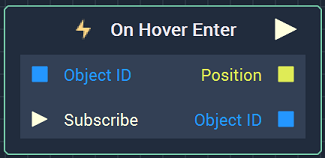
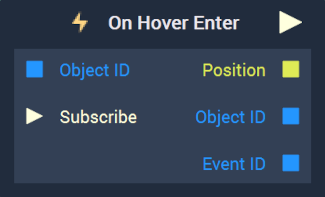
event id edits

diff --git a/toolbox/events/mouse/on-hover-enter.md b/toolbox/events/mouse/on-hover-enter.md
@@ -2,19 +2,12 @@
 
 ## Overview
 
-![The On Hover Enter Node.](../../../.gitbook/assets/onhoverenterupdatedimage.png)
+![The On Hover Enter Node.](../../../.gitbook/assets/onhoverenternode.png)
 
 **On Hover Enter** is an **Event Listener** **Node** used for executing a **Logic Branch** when the cursor starts hovering over an **Object**.
 
 [**Scope**](../../overview.md#scopes): **Scene**, **Prefab**.
 
-## Attributes
-
-![The On Hover Enter Node Attributes.](../../../.gitbook/assets/onhoverenterattributes.png)
-
-| Attribute | Type | Description |
-| :--- | :--- | :--- |
-| `Object` | **ObjectID** | The **Object** in which start hovering triggers the **Logic Branch**, if none is given in the `Object ID` **Input Socket**. |
 
 ## Inputs
 
@@ -30,6 +23,7 @@
 | _Pulse Output_ \(►\) | **Pulse** | A standard **Output Pulse**, to move onto the next **Node** along the **Logic Branch**, once this **Node** has finished its execution. |
 | `Position` | **Vector2** | **Vector** containing the XY-coordinates of the point of entry with respect to the bottom left of the **Screen**. |
 | `Object ID` | **ObjectID** | The **Object** received as **Input**. |
+|`Event ID`| **ObjectID**| The ID of the current **Event**. This can be connected to the [**Unsubscribe Node**](../unsubscribe.md) to unsubscribe from the **Event**.|
 
 ## See Also
 

diff --git a/toolbox/events/mouse/on-hover-leave.md b/toolbox/events/mouse/on-hover-leave.md
@@ -2,7 +2,7 @@
 
 ## Overview
 
-![The On Hover Leave Node.](../../../.gitbook/assets/onhoverleaveupdatedimage.png)
+![The On Hover Leave Node.](../../../.gitbook/assets/onhoverleavenode2.png)
 
 **On Hover Leave** is an **Event Listener** **Node** used for executing a **Logic Branch** when the cursor stops hovering over an **Object**.
 
@@ -10,11 +10,6 @@
 
 ## Attributes
 
-![The On Hover Leave Node Attributes.](../../../.gitbook/assets/onhoverleaveattributes.png)
-
-| Attribute | Type | Description |
-| :--- | :--- | :--- |
-| `Object` | **ObjectID** | The **Object** in which stop hovering triggers the **Logic Branch**, if none is given in the `Òbject ID` **Input Socket**. |
 
 ## Inputs
 
@@ -30,6 +25,7 @@
 | _Pulse Output_ \(►\) | **Pulse** | A standard **Output Pulse**, to move onto the next **Node** along the **Logic Branch**, once this **Node** has finished its execution. |
 | `Position` | **Vector2** | **Vector** containing the XY-coordinates of the point of exit with respect to the bottom left of the **Screen**. |
 | `Object ID` | **ObjectID** | The **Object** received as **Input**. |
+|`Event ID`| **ObjectID**| The ID of the current **Event**. This can be connected to the [**Unsubscribe Node**](../unsubscribe.md) to unsubscribe from the **Event**.|
 
 ## See Also
 

diff --git a/toolbox/events/mouse/on-mouse-move.md b/toolbox/events/mouse/on-mouse-move.md
@@ -38,7 +38,7 @@ Note: **Input Sockets** only available when `Event Base` is set to `Object`.
 | _Pulse Output_ \(►\) | **Pulse** | A standard **Output Pulse**, to move onto the next **Node** along the **Logic Branch**, once this **Node** has finished its execution. |
 | `Position` | **Vector2** | **Vector** containing the XY-coordinates of the points through which the cursor passes with respect to the bottom left of the **Screen**. |
 | `Object ID` | **ObjectID** | The **Object ID** of the **Object** where the cursos moves. If there is no **Object** on that part of the **Screen**, the output is the **Object ID** `00000000-0000-0000-0000-000000000000`.  |
-|`Event ID`| **ObjectID**| The ID of the current **Event**. This can be connected to the [**Unsubscribe Node**](../../incari/event/unsubscribe.md) to unsubscribe from the **Event**.|
+|`Event ID`| **ObjectID**| The ID of the current **Event**. This can be connected to the [**Unsubscribe Node**](../unsubscribe.md) to unsubscribe from the **Event**.|
 
 ## See Also
 

diff --git a/toolbox/events/mouse/on-mouse-scroll.md b/toolbox/events/mouse/on-mouse-scroll.md
@@ -38,7 +38,7 @@ Note: **Input Sockets** only available when `Event Base` is set to `Object`.
 | _Pulse Output_ \(►\) | **Pulse** | A standard **Output Pulse**, to move onto the next **Node** along the **Logic Branch**, once this **Node** has finished its execution. |
 | `Direction` | **Vector2** | **Vector** whose Y-coordinate indicates the direction and speed of the scrolling. |
 | `Object ID` | **ObjectID** |  The **Object ID** of the **Object** where the scroll occurs. If there is no **Object** on that part of the **Screen**, the output is the **Object ID** `00000000-0000-0000-0000-000000000000`. |
-|`Event ID`| **ObjectID**| The ID of the current **Event**. This can be connected to the [**Unsubscribe Node**](../../incari/event/unsubscribe.md) to unsubscribe from the **Event**.|
+|`Event ID`| **ObjectID**| The ID of the current **Event**. This can be connected to the [**Unsubscribe Node**](../unsubscribe.md) to unsubscribe from the **Event**.|
 
 ## See Also
 

diff --git a/toolbox/events/mouse/on-mouse-click.md b/toolbox/events/mouse/on-mouse-click.md
@@ -46,7 +46,7 @@ Note: **Input Sockets** only available when `Event Base` is set to `Object`.
 | _Pulse Output_ \(►\) | **Pulse** | A standard **Output Pulse**, to move onto the next **Node** along the **Logic Branch**, once this **Node** has finished its execution. |
 | `IsLongClick` | **Bool** | _True_ when the button is pressed longer than usual. |
 | `Object ID` | **ObjectID** | The **Object ID** of the **Object** that was clicked on. If there is no **Object** on that part of the **Screen**, the output is the **Object ID** `00000000-0000-0000-0000-000000000000`.  |
-|`Event ID`| **ObjectID**| The ID of the current **Event**. This can be connected to the [**Unsubscribe Node**](../../incari/event/unsubscribe.md) to unsubscribe from the **Event**.|
+|`Event ID`| **ObjectID**| The ID of the current **Event**. This can be connected to the [**Unsubscribe Node**](../unsubscribe.md) to unsubscribe from the **Event**.|
 
 ## See Also
 

diff --git a/toolbox/events/mouse/on-mouse-enter.md b/toolbox/events/mouse/on-mouse-enter.md
@@ -38,7 +38,7 @@ Note: **Input Sockets** only available when `Event Base` is set to `Object`.
 | _Pulse Output_ \(►\) | **Pulse** | A standard **Output Pulse**, to move onto the next **Node** along the **Logic Branch**, once this **Node** has finished its execution. |
 | `Position` | **Vector2** | **Vector** containing the XY-coordinates of the point of entry with respect to the bottom left of the **Screen**. |
 | `Object ID` | **ObjectID** | The **Object ID** of the **Object** entered. |
-|`Event ID`| **ObjectID**| The ID of the current **Event**. This can be connected to the [**Unsubscribe Node**](../../incari/event/unsubscribe.md) to unsubscribe from the **Event**.|
+|`Event ID`| **ObjectID**| The ID of the current **Event**. This can be connected to the [**Unsubscribe Node**](../unsubscribe.md) to unsubscribe from the **Event**.|
 
 ## See Also
 

diff --git a/toolbox/events/mouse/on-mouse-leave.md b/toolbox/events/mouse/on-mouse-leave.md
@@ -38,7 +38,7 @@ Note: **Input Sockets** only available when `Event Base` is set to `Object`.
 | _Pulse Output_ \(►\) | **Pulse** | A standard **Output Pulse**, to move onto the next **Node** along the **Logic Branch**, once this **Node** has finished its execution. |
 | `Position` | **Vector2** | **Vector** containing the XY-coordinates of the point of exit with respect to the bottom left of the **Screen**. |
 | `Object ID` | **ObjectID** | The **Object ID** of the **Object** left.|
-|`Event ID`| **ObjectID**| The ID of the current **Event**. This can be connected to the [**Unsubscribe Node**](../../incari/event/unsubscribe.md) to unsubscribe from the **Event**.|
+|`Event ID`| **ObjectID**| The ID of the current **Event**. This can be connected to the [**Unsubscribe Node**](../unsubscribe.md) to unsubscribe from the **Event**.|
 
 ## See Also
 

diff --git a/toolbox/events/gestures/on-tap.md b/toolbox/events/gestures/on-tap.md
@@ -45,7 +45,7 @@
 | _Pulse Output_ \(►\) | **Pulse** | A standard **Output Pulse**, to move onto the next **Node** along the **Logic Branch**, once this **Node** has finished its execution. |
 | `IsLongClick` | **Bool** | _True_ when the button is pressed longer than usual. |
 | `Object ID` | **ObjectID** | The **Object** received as **Input**. | 
-|`Event ID`| **ObjectID**| The ID of the current **Event**. This can be connected to the [**Unsubscribe Node**](../../incari/event/unsubscribe.md) to unsubscribe from the **Event**.|
+|`Event ID`| **ObjectID**| The ID of the current **Event**. This can be connected to the [**Unsubscribe Node**](../unsubscribe.md) to unsubscribe from the **Event**.|
 
 ## See Also
 

diff --git a/toolbox/events/gestures/on-swipe.md b/toolbox/events/gestures/on-swipe.md
@@ -44,7 +44,7 @@
 | _Pulse Output_ \(►\) | **Pulse** | A standard **Output Pulse**, to move onto the next **Node** along the **Logic Branch**, once this **Node** has finished its execution. |
 | `Distance` | **Vector2** | Length of the swipe in the X and Y directions. |
 | `Object ID` | **ObjectID** | The **Object** received as **Input**. |
-|`Event ID`| **ObjectID**| The ID of the current **Event**. This can be connected to the [**Unsubscribe Node**](../../incari/event/unsubscribe.md) to unsubscribe from the **Event**.|
+|`Event ID`| **ObjectID**| The ID of the current **Event**. This can be connected to the [**Unsubscribe Node**](../unsubscribe.md) to unsubscribe from the **Event**.|
 
 
 ## See Also
